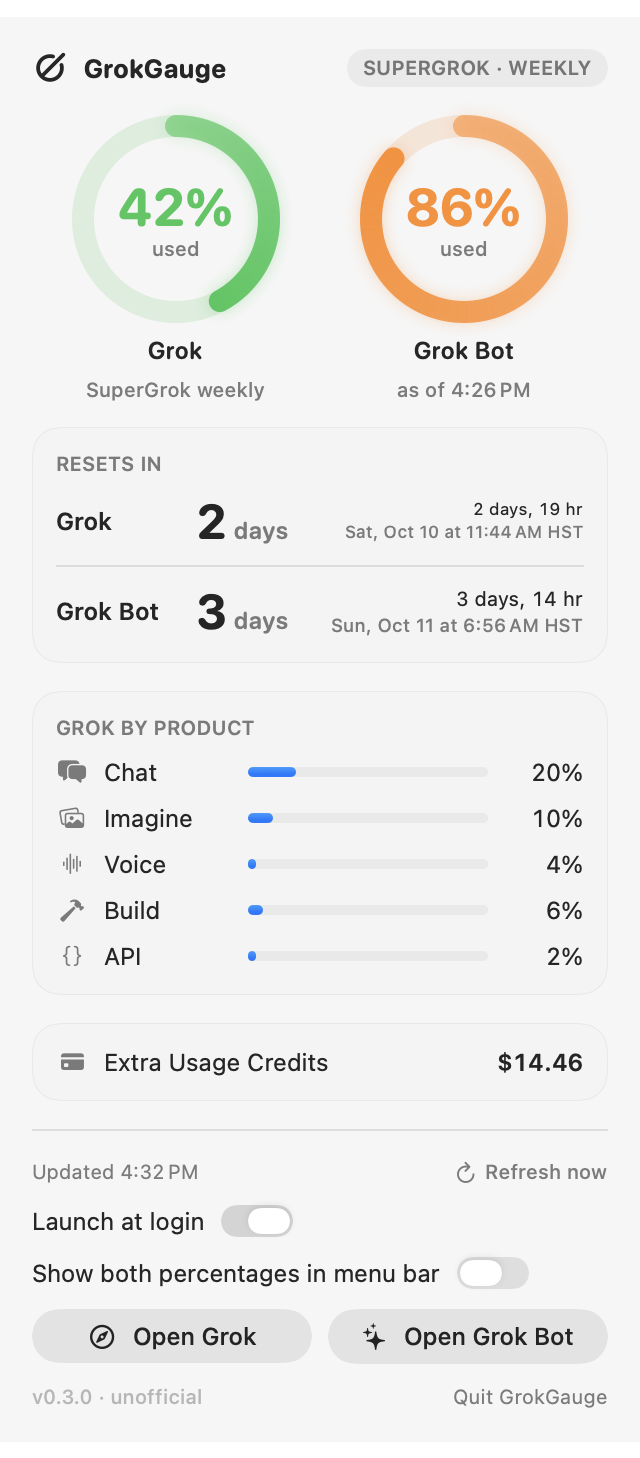
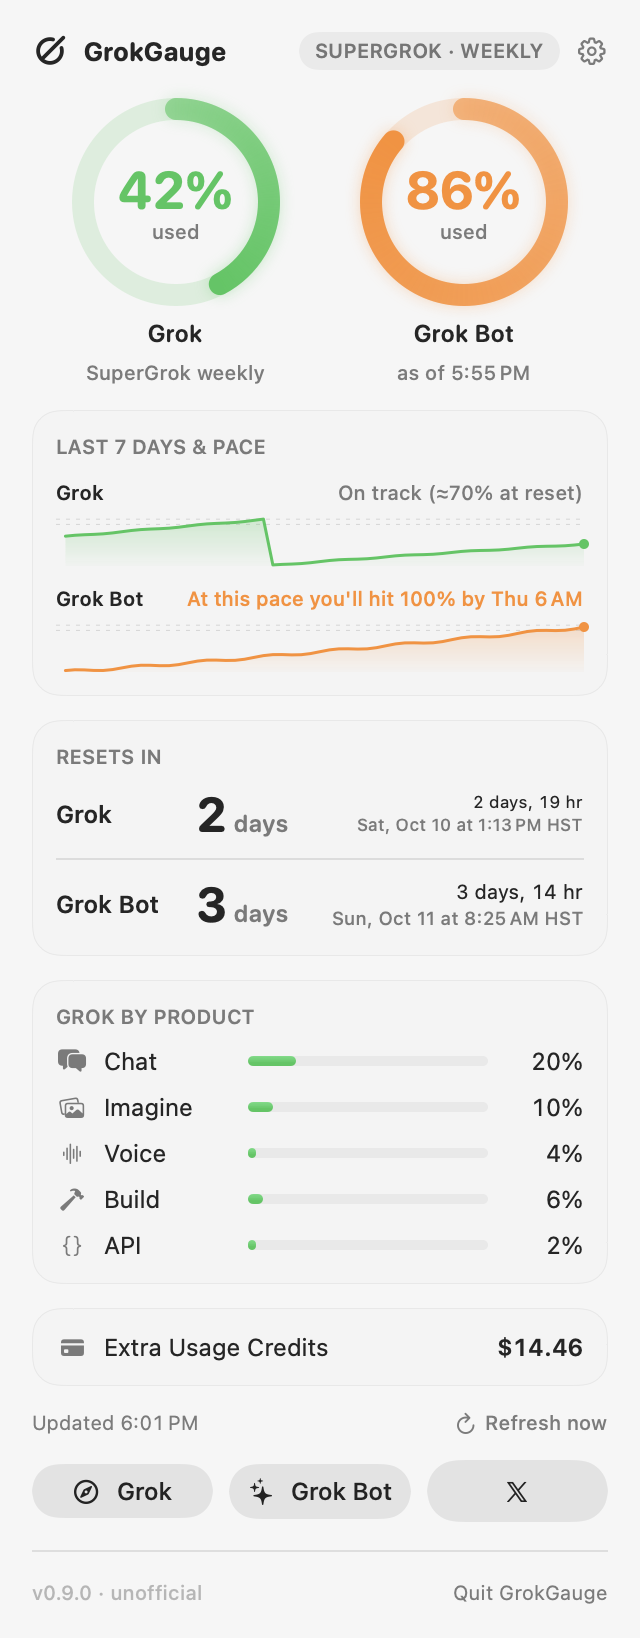
GrokGauge 0.9.0: README, previews, version bump
- README: Settings tabs, multi-Mac sync, colors and levels, shortcut,
  diagnostics, update check, history privacy, unexpected-reply behavior
- New previews: dropdown (real + demo, dark + light), layout variants,
  'xAI changed something' state, and every Settings tab
- VERSION 0.9.0; cask mirror bumped to 0.9.0 with a placeholder sha256
  until the release exists (the tap itself is unchanged); zap also
  removes Application Support/GrokGauge

diff --git a/Casks/grokgauge.rb b/Casks/grokgauge.rb
@@ -1,7 +1,9 @@
 # Mirror of github.com/stevencombs/homebrew-tap/blob/main/Casks/grokgauge.rb (keep in sync).
 cask "grokgauge" do
-  version "0.3.0"
[1 lines of base64/hex data omitted]
+  version "0.9.0"
+  # PLACEHOLDER: replace with the sha256 of GrokGauge-0.9.0.zip once the v0.9.0 release is published
+  # (the tap still serves 0.3.0 with its real checksum until then).
+  sha256 "0000000000000000000000000000000000000000000000000000000000000000"
 
   url "https://github.com/stevencombs/GrokGauge/releases/download/v#{version}/GrokGauge-#{version}.zip"
   name "GrokGauge"
@@ -27,7 +29,10 @@ cask "grokgauge" do
 
   uninstall quit: "com.retrocombs.GrokGauge"
 
-  zap trash: "~/Library/Preferences/com.retrocombs.GrokGauge.plist"
+  zap trash: [
+    "~/Library/Application Support/GrokGauge",
+    "~/Library/Preferences/com.retrocombs.GrokGauge.plist",
+  ]
 
   caveats <<~EOS
     GrokGauge is ad-hoc signed, not notarized by Apple. This cask removed the

diff --git a/README.md b/README.md
@@ -10,7 +10,7 @@
 </p>
 
 <p align="center">
-  <img src="docs/menubar-demo.png" width="480" alt="GrokGauge in the menu bar: the higher of the two percents (86%), both percents (G 42% · B 86%), and a red 95%">
+  <img src="docs/menubar-demo.png" width="560" alt="GrokGauge menu bar styles: the higher percent (86%), both percents (G 42% · B 86%), percent with days to reset (86% · 3d), the logo alone tinted orange, and a red 95%">
 </p>
 
 > **Unofficial.** GrokGauge is a community project by [retroCombs](https://www.retrocombs.com).
@@ -30,17 +30,26 @@ GrokGauge tracks two weekly limits side by side:
 Features:
 
 - **Menu bar meter.** A small Grok-style glyph plus a percent, color-coded **green** up to 80%,
-  **orange** from 81–90%, and **red** above 90%. By default it shows the **higher** of the two
-  numbers. Turn on **Show both percentages in menu bar** to see `G 0% · B 9%` instead, each colored separately.
-- **Two ring gauges.** Grok on the left, Grok Bot on the right, with the same colors.
+  **orange** from 81–90%, and **red** above 90% (levels and colors are yours to change). Show the
+  **higher** of the two numbers, **both** (`G 42% · B 86%`), just one source, or only the logo tinted
+  by status. Optionally add the days to reset (`10% · 5d`) or hide the logo.
+- **Ring gauges** for Grok and Grok Bot: side by side, stacked, or one combined ring showing the higher.
+- **History & pace.** A 7-day sparkline for each source, plus a projection: "On track (≈40% at reset)"
+  or "At this pace you'll hit 100% by Fri 3 PM".
 - **Reset times.** Days until reset, a live countdown, and the exact reset day and time in your
   time zone. When Grok and Grok Bot reset at different times you get one clearly labeled line for each.
 - **Per-product breakdown** of the Grok pool: Chat, Imagine, Voice, Build, and API.
 - **Extra Usage Credits.** Your prepaid Grok credit balance (and on-demand spend, if you've enabled it).
-- **Heads-up notifications** when Grok or Grok Bot crosses 80% and 90%, once per week for each.
-- **Refresh now**, last-updated time, and automatic refresh every 15 minutes (and after wake).
-- **Launch at login** toggle (uses macOS's built-in Login Items).
-- **Open Grok** (grok.com in your default browser) and **Open Grok Bot** (if installed) right from the menu.
+- **Heads-up notifications** when Grok or Grok Bot enters the warning and critical levels, once per week for each.
+- **Refresh now**, last-updated time, automatic refresh every 5–60 minutes, and smart retries
+  (backoff on errors, a quiet grace period after wake or a network change).
+- **Global shortcut** (default **⌃⌥G**) to open the dropdown from anywhere.
+- **Open Grok**, **Open Grok Bot** (if installed) and **Open X** (the X app if installed, otherwise x.com) buttons.
+- **Settings window** (gear button or **⌘,**): reorder and hide dropdown sections, menu bar style,
+  levels and colors (with a colorblind-friendly preset), notification levels, refresh interval,
+  launch at login, settings sync between Macs, diagnostics, and an optional update check.
+- **Accessible.** VoiceOver labels and values on the rings, bars, charts and buttons; respects
+  Reduce Motion and Increase Contrast.
 
 <p align="center">
   <img src="docs/popover-dark-demo.png" width="300" alt="GrokGauge dropdown, dark mode">
@@ -48,6 +57,15 @@ Features:
   <img src="docs/popover-light-demo.png" width="300" alt="GrokGauge dropdown, light mode">
 </p>
 <p align="center"><sub>Screenshots use sample data (Grok 42%, Grok Bot 86%).</sub></p>
+
+<p align="center">
+  <img src="docs/popover-stacked-colorblind-dark-demo.png" width="250" alt="Stacked rings with the colorblind-friendly palette">
+  &nbsp;
+  <img src="docs/popover-combined-compact-dark-demo.png" width="250" alt="One combined ring with some sections hidden">
+  &nbsp;
+  <img src="docs/popover-changed-shape-dark-demo.png" width="250" alt="The 'xAI changed something' state">
+</p>
+<p align="center"><sub>Stacked rings with the colorblind-friendly palette · one combined ring with sections hidden · what you see if xAI changes the usage reply.</sub></p>
 
 ## Requirements
 
@@ -102,14 +120,59 @@ Each release lists the zip's SHA-256 so you can check your download with `shasum
 
 ### First run
 
-1. Click the gauge in the menu bar to open the dropdown.
-2. When macOS asks, **allow notifications** so you get the 80% and 90% alerts.
-3. Turn on **Launch at login** in the dropdown if you want GrokGauge to start with your Mac.
-4. Use **Refresh now** any time; otherwise it updates itself every 15 minutes.
+1. Click the gauge in the menu bar (or press **⌃⌥G**) to open the dropdown.
+2. When macOS asks, **allow notifications** so you get the warning and critical alerts.
+3. Click the **gear** (or press **⌘,**) and turn on **Launch at login** under *Colors & Alerts*
+   if you want GrokGauge to start with your Mac.
+4. Use **Refresh now** any time; otherwise it updates itself every 15 minutes (adjustable).
 
-### Using it on several Macs
+## Settings
 
-Run `brew install --cask stevencombs/tap/grokgauge` and `grok login` on each Mac. Settings are per-Mac; there's nothing to sync.
+Open Settings with the gear button in the dropdown or **⌘,** while the dropdown is open.
+Everything applies immediately.
+
+| | |
+|---|---|
+| <img src="docs/prefs-layout-demo.png" width="400" alt="Layout tab"> | <img src="docs/prefs-menuBar-demo.png" width="400" alt="Menu Bar tab"> |
+| <img src="docs/prefs-colors-demo.png" width="400" alt="Colors & Alerts tab"> | <img src="docs/prefs-sync-demo.png" width="400" alt="Sync tab"> |
+| <img src="docs/prefs-diagnostics-demo.png" width="400" alt="Diagnostics tab"> | <img src="docs/prefs-about-demo.png" width="400" alt="About tab"> |
+
+- **Layout.** Check or uncheck each dropdown section (Grok ring, Grok Bot ring, history & pace,
+  reset dates, Grok by product, Extra Usage Credits, the Updated/Refresh row, action buttons) and drag
+  rows to reorder them (the arrow buttons and VoiceOver actions work too). Pick the ring style, and
+  choose which action buttons appear and in what order. **Reset Layout to Default** undoes it all.
+- **Menu Bar.** Higher percent, both (`G · B`), Grok only, Grok Bot only, or the logo alone tinted
+  green/orange/red. Optional days-to-reset suffix and a hide-the-logo switch, with a live preview.
+  Set or turn off the global shortcut here; if another app already owns a combination, GrokGauge says so.
+- **Colors & Alerts.** Drag the two handles of the level slider (or type the numbers) to set where
+  *warning* and *critical* start; the handles can't cross and stay at least 1% apart. Pick each level's
+  color with the macOS color picker; GrokGauge warns you if two colors are hard to tell apart
+  (CIEDE2000 ΔE below 12) and offers a colorblind-friendly preset (Okabe–Ito blue/orange/vermilion).
+  Colors apply to the rings, the menu bar percent and the product bars. Notifications follow the color
+  levels unless you uncheck **Notify at the color levels** and set separate ones. Also: refresh interval
+  (5, 15, 30 or 60 minutes) and **Launch at login**.
+- **Sync.** See [Using it on several Macs](#using-it-on-several-macs). **Export…** and **Import…**
+  save and load the same JSON file.
+- **Diagnostics.** For Grok and Grok Bot: status, last success, last error, and (for Grok) when the
+  login expires, plus the app and macOS versions. **Copy Report** puts a plain-text summary on the
+  clipboard for bug reports; it never includes tokens, emails, account ids, or file paths.
+- **About.** Version, links, and **Check for updates daily** (on by default). When a newer release is
+  out, the dropdown footer shows **Update available** with a link to the release and the
+  `brew upgrade --cask grokgauge` command. GrokGauge never installs anything by itself.
+
+## Using it on several Macs
+
+Install GrokGauge and run `grok login` on each Mac (logins are never synced). To keep your
+**settings** the same everywhere, open *Settings › Sync* on each Mac and choose a folder your Macs
+already sync, such as a Google Drive, Insync, Dropbox or iCloud Drive folder.
+
+- GrokGauge keeps one small file there, `GrokGauge/settings.json`, and watches it. It notices both
+  in-place edits and sync clients that replace the file, and also checks every 30 seconds as a fallback.
+- The newest change wins (by the time it was made). Changes made while a Mac is offline are resolved
+  the same way when it comes back.
+- **Only preferences sync**: layout, menu bar, levels, colors, notification levels, refresh interval,
+  shortcut, and the update-check switch. Never your Grok login, tokens, usage numbers, or history.
+- The folder choice itself stays on each Mac, so each one can point at its own path.
 
 ## Privacy
 
@@ -145,7 +208,19 @@ Run `brew install --cask stevencombs/tap/grokgauge` and `grok login` on each Mac
   Grok Bot's login or its encrypted secrets (`sand-secrets.json` and the "Grok Bot Safe Storage"
   Keychain item), and it never talks to Grok Bot's servers.
 
-### Both
+### Settings, history, and updates
+
+- **Settings sync** writes only `GrokGauge/settings.json` in the folder you choose, containing
+  preferences only (no tokens, emails, ids, usage, or history). Nothing is synced until you pick a folder.
+- **History** for the sparklines stays on your Mac in
+  `~/Library/Application Support/GrokGauge/history.json`: timestamps and percents only, pruned after
+  8 days, never synced or sent anywhere.
+- **Update check** (optional, daily) asks GitHub's public API for the latest
+  [stevencombs/GrokGauge](https://github.com/stevencombs/GrokGauge/releases) release. It's unauthenticated
+  and sends no identifiers besides a `GrokGauge/<version>` User-Agent.
+- **Open X** just opens the X app or x.com. GrokGauge reads no X data.
+
+### Everything
 
 - No analytics, no telemetry, no third-party servers.
 
@@ -160,8 +235,16 @@ Authorization: Bearer <token from ~/.grok/auth.json>
 
 and reads `config.creditUsagePercent`, `config.currentPeriod`, `config.productUsage`, and the credit
 balances. xAI doesn't document this endpoint and can change it at any time, which could break
-GrokGauge until it's updated. When xAI omits `creditUsagePercent` (it does right after a reset,
-since zero values are dropped), GrokGauge shows 0%.
+GrokGauge until it's updated.
+
+- When xAI omits `creditUsagePercent` but the rest of the reply looks normal (it does this right
+  after a reset, since zero values are dropped), GrokGauge shows 0% and labels the ring
+  **"Inferred (none reported)"**.
+- If the reply is JSON but no longer has the expected shape (no `config`, no current period), GrokGauge
+  shows **"xAI changed something"** and a dash instead of a misleading 0%, and keeps retrying.
+- Network errors are retried with exponential backoff (30 s, 1 min, 2 min, … up to 15 min). After your
+  Mac wakes or switches networks, GrokGauge waits a few seconds before refreshing and retries quietly
+  for a short grace period, so you don't see "You're offline" flash on wake.
 
 ### Grok Bot
 
@@ -205,6 +288,7 @@ Want the raw numbers? Run the app binary with a debug flag. None of them print y
 ```sh
 /Applications/GrokGauge.app/Contents/MacOS/GrokGauge --print-usage   # Grok + Grok Bot; or --json
 /Applications/GrokGauge.app/Contents/MacOS/GrokGauge --refresh-now   # renew the login now; prints expiry times
+/Applications/GrokGauge.app/Contents/MacOS/GrokGauge --render-preview ~/Desktop/gg --demo   # dropdown, menu bar and Settings PNGs
 ```
 
 ## Build from source
@@ -226,23 +310,26 @@ certificate.
 
 ### Releasing
 
-1. Bump `VERSION`, commit, then tag: `git tag -a v1.2.3 -m "GrokGauge 1.2.3" && git push origin v1.2.3`.
+1. Bump `VERSION` (and `version` in `Casks/grokgauge.rb`), commit, then tag: `git tag -a v1.2.3 -m "GrokGauge 1.2.3" && git push origin v1.2.3`.
 2. The **Release** GitHub Action runs the tests, builds the universal app, and attaches
    `GrokGauge-<version>.zip` (and its `.sha256`) to a GitHub release.
 3. In [stevencombs/homebrew-tap](https://github.com/stevencombs/homebrew-tap), update `version`
-   and `sha256` in `Casks/grokgauge.rb`, then copy that file to `Casks/grokgauge.rb` here so the
-   two stay in sync. Check it with `brew audit --cask --strict --online stevencombs/tap/grokgauge`.
+   and `sha256` in `Casks/grokgauge.rb` (use the sha256 from the release; until then this repo's copy
+   carries a placeholder), then copy that file to `Casks/grokgauge.rb` here so the two stay in sync. Check it with `brew audit --cask --strict --online stevencombs/tap/grokgauge`.
 
 ### Project layout
 
 ```
-Sources/GrokGaugeCore/   auth.json + token renewal, the billing request, the Grok Bot cache reader (Foundation only)
-Sources/GrokGauge/       menu bar app (AppKit + SwiftUI), notifications, login item, debug CLI
+Sources/GrokGaugeCore/   auth.json + token renewal, the billing request, the Grok Bot cache reader,
+                         settings model + sync, colors, pace, history, update check (Foundation only)
+Sources/GrokGauge/       menu bar app (AppKit + SwiftUI), Settings window, notifications, shortcut, debug CLI
 Tests/                   swift-testing unit tests
 scripts/                 build-app.sh, test.sh, assets/make-icon.py
 Resources/               Info.plist template, AppIcon.icns
 Casks/grokgauge.rb       Copy of the cask in stevencombs/homebrew-tap
 ```
+
+See [CONTRIBUTING.md](CONTRIBUTING.md) for how to contribute and [CHANGELOG.md](CHANGELOG.md) for what changed.
 
 ## Credits
 
